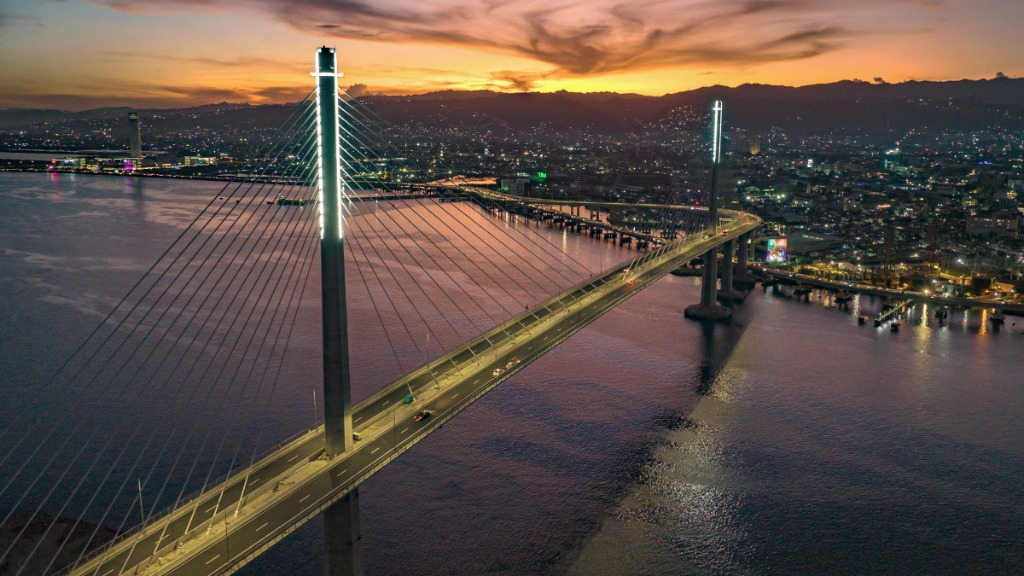
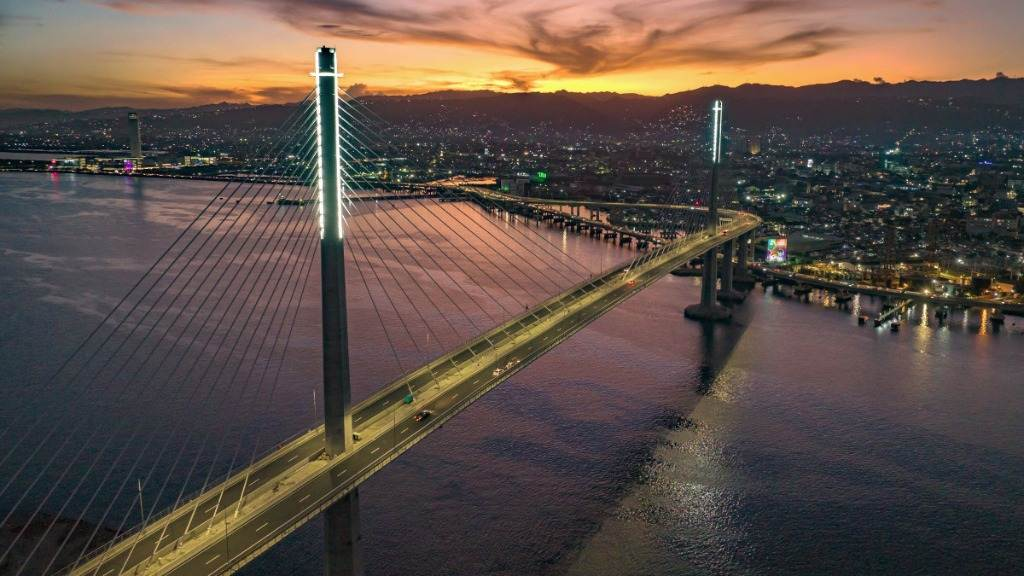
Fix JS activeMarkers bug and optimize page speed by replacing PNGs with compressed JPEGs

diff --git a/search.js b/search.js
@@ -28,7 +28,7 @@ document.addEventListener('DOMContentLoaded', () => {
       size: 350,
       lat: 10.3122,
       lng: 123.8889,
-      image: 'images/property_house.png'
+      image: 'images/property_house.jpg'
     },
     {
       id: 2,
@@ -42,7 +42,7 @@ document.addEventListener('DOMContentLoaded', () => {
       size: 88,
       lat: 10.3278,
       lng: 123.9061,
-      image: 'images/property_condo.png'
+      image: 'images/property_condo.jpg'
     },
     {
       id: 3,
@@ -56,7 +56,7 @@ document.addEventListener('DOMContentLoaded', () => {
       size: 220,
       lat: 10.3444,
       lng: 123.9214,
-      image: 'images/property_commercial.png'
+      image: 'images/property_commercial.jpg'
     },
     {
       id: 4,
@@ -70,7 +70,7 @@ document.addEventListener('DOMContentLoaded', () => {
       size: 150,
       lat: 10.3115,
       lng: 124.0194,
-      image: 'images/property_condo.png'
+      image: 'images/property_condo.jpg'
     },
     {
       id: 5,
@@ -84,7 +84,7 @@ document.addEventListener('DOMContentLoaded', () => {
       size: 180,
       lat: 10.3320,
       lng: 123.8988,
-      image: 'images/property_house.png'
+      image: 'images/property_house.jpg'
     }
   ];
 
@@ -106,7 +106,7 @@ document.addEventListener('DOMContentLoaded', () => {
   }).addTo(map);
 
   const markerGroup = L.layerGroup().addTo(map);
-  const activeMarkers = {}; // stores references to pins by property ID
+  let activeMarkers = {}; // stores references to pins by property ID
 
   /* ── 3. RENDER CARD LISTINGS ── */
   const listingsList = document.getElementById('listingsList');

diff --git a/index.html b/index.html
@@ -194,7 +194,7 @@
 
       <article class="listing-card" id="listing-1">
         <div class="listing-img-wrap">
-          <img src="images/property_house.png" alt="Luxury House and Lot in Cebu" class="listing-img" />
+          <img src="images/property_house.jpg" alt="Luxury House and Lot in Cebu" class="listing-img" />
           <div class="listing-badge listing-badge--new">New</div>
           <div class="listing-overlay">
             <a href="#contact" class="btn btn-gold btn-sm" id="listing-view-1">Book Viewing</a>
@@ -221,7 +221,7 @@
 
       <article class="listing-card" id="listing-2">
         <div class="listing-img-wrap">
-          <img src="images/property_condo.png" alt="Luxury Condo in Cebu IT Park" class="listing-img" />
+          <img src="images/property_condo.jpg" alt="Luxury Condo in Cebu IT Park" class="listing-img" />
           <div class="listing-badge listing-badge--hot">Hot Deal</div>
           <div class="listing-overlay">
             <a href="#contact" class="btn btn-gold btn-sm" id="listing-view-2">Book Viewing</a>
@@ -248,7 +248,7 @@
 
       <article class="listing-card" id="listing-3">
         <div class="listing-img-wrap">
-          <img src="images/property_commercial.png" alt="Commercial Space in Mandaue" class="listing-img" />
+          <img src="images/property_commercial.jpg" alt="Commercial Space in Mandaue" class="listing-img" />
           <div class="listing-badge listing-badge--presell">Pre-selling</div>
           <div class="listing-overlay">
             <a href="#contact" class="btn btn-gold btn-sm" id="listing-view-3">Book Viewing</a>